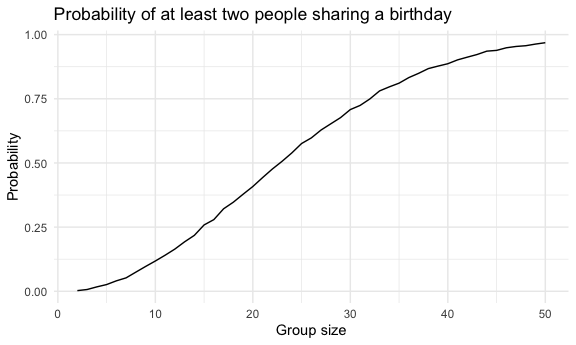
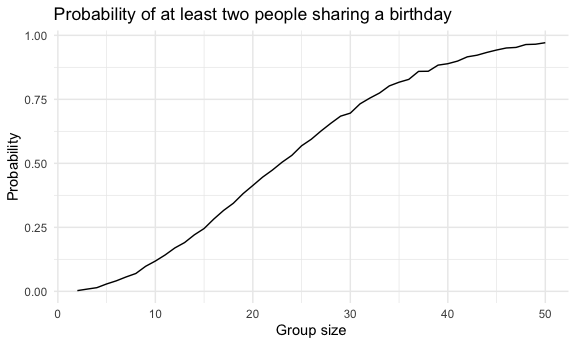
final version

diff --git a/p8105_hw5_zo2168.md b/p8105_hw5_zo2168.md
@@ -3,6 +3,8 @@ p8105_hw5_zo2168
 Zhengkun Ou
 2024-11-14
 
+## Question 1
+
 ``` r
 birthday <- function(n){
   birthdays <- sample(1:365, n, replace = TRUE)
@@ -17,16 +19,16 @@ prob
     ## # A tibble: 49 × 2
     ##        n   prob
     ##    <int>  <dbl>
-    ##  1     2 0.0026
-    ##  2     3 0.0069
-    ##  3     4 0.0172
-    ##  4     5 0.0262
-    ##  5     6 0.0407
-    ##  6     7 0.0523
-    ##  7     8 0.0746
-    ##  8     9 0.0967
+    ##  1     2 0.0028
+    ##  2     3 0.0087
+    ##  3     4 0.0143
+    ##  4     5 0.0288
+    ##  5     6 0.0411
+    ##  6     7 0.0562
+    ##  7     8 0.0697
+    ##  8     9 0.0977
     ##  9    10 0.118 
-    ## 10    11 0.140 
+    ## 10    11 0.142 
     ## # ℹ 39 more rows
 
 ``` r
@@ -39,7 +41,7 @@ ggplot(prob, aes(x = n, y = prob)) +
 
 <img src="p8105_hw5_zo2168_files/figure-gfm/unnamed-chunk-1-1.png" width="90%" />
 
-\##Question 2
+## Question 2
 
 ``` r
 set.seed(123)
@@ -104,12 +106,15 @@ estimates_plot
 ```
 
 <img src="p8105_hw5_zo2168_files/figure-gfm/unnamed-chunk-4-1.png" width="90%" />
-\### 1. Small Effect Sizes (μ ≈ 0-2) \* The yellow line (rejected
-samples) lies **above** the true value line (dashed y=x) \* This
-indicates an upward bias in the estimates when only considering
-significant results \* This phenomenon demonstrates selection bias or
-“winner’s curse” - we’re only seeing results extreme enough to reject
-the null hypothesis
+
+### 1. Small Effect Sizes (μ ≈ 0-2)
+
+- The yellow line (rejected samples) lies **above** the true value line
+  (dashed y=x)
+- This indicates an upward bias in the estimates when only considering
+  significant results
+- This phenomenon demonstrates selection bias or “winner’s curse” -
+  we’re only seeing results extreme enough to reject the null hypothesis
 
 ### 2. Large Effect Sizes (μ \> 4)
 
@@ -121,7 +126,7 @@ the null hypothesis
   - More tests reject the null hypothesis
   - Less selection bias as we’re not just selecting extr
 
-\##Question 3
+## Question 3
 
 ``` r
 suicide <- read_csv("homicide-data.csv")
